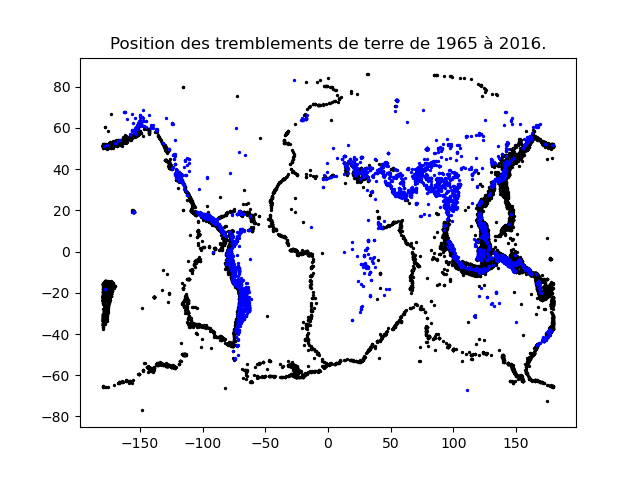
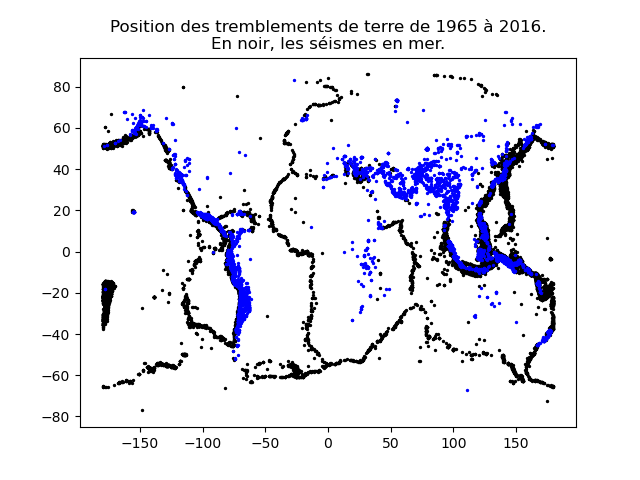
udpate

Changed region(s): [[0.1562, 0.0312, 0.8438, 0.125]]

diff --git a/ensg/miashs/l3-sd2/tps/cc-le-retour/index.html b/ensg/miashs/l3-sd2/tps/cc-le-retour/index.html
@@ -89,7 +89,7 @@
     <li>Dans combien de pays identifiés y a-t-il eu au moins 1 séisme depuis 1965&nbsp;? Indiquez-le dans le compte-rendu.</li>
     <li>Combien y a-t-il eu de tremblements de terre en France&nbsp;? Indiquez ce nombre et les dates de ces tremblements de terre dans le compte-rendu.</li>
     <li>Faites un graphique du nombre de tremblements de terre par année. Insérez-le dans votre compte-rendu. Analysez ce graphique. Indiquez vos réflexions dans votre compte-rendu.</li>
-    <li>Faites un graphique indiquant le nombre de séismes par pays. In sérez-le dans le compte-rendu.
+    <li>Faites un graphique indiquant le nombre de séismes par pays. Insérez-le dans le compte-rendu.
       Vous devez obtenir un graphique comme celui-ci&nbsp;:
       <br/>
       <img src="DistribSeismesParPays.png" width="300pt", alt="Nombre de séismes par pays." />
@@ -103,7 +103,7 @@
       <img src="PositionQuakes.png" width="300pt" alt="" />
     </li>
     <li>Refaites ce graphique en indiquant en noir la position des tremblements de terre pour lesquels l'attribut <kbd>pays</kbd> vaut <kbd>unknown</kbd> et en bleu les autres. Qu'en pensez-vous&nbsp;? Vous indiquez la commande dans votre compte-rendu, ainsi que vos pensées à la vue de ce graphique et vous insérez le graphique dans le compte-rendu.</li>
-    <li>Faites un graphique indiquant la position des tremblements de terre d'origine naturelle en bleu, les tremblements de terre dont l'origine est une explosion nucléaire en rouge. Insérez cette figure dans votre compte-rendu.</li>
+    <li>Faites un graphique indiquant la position des tremblements de terre dont l'origine est une explosion nucléaire par un gros point rouge, tous les autres avec un petit point bleu. Insérez cette figure dans votre compte-rendu.</li>
     <li>Vous utilisez le jeu de données sur les volcans étudié précédemment et vous réalisez un graphique indiquant les tremblements de terre par des points bleus et les éruptions volcaniques par des points rouges. Vous insérez le graphique dans le compte-rendu.</li>
   </ol>
   
